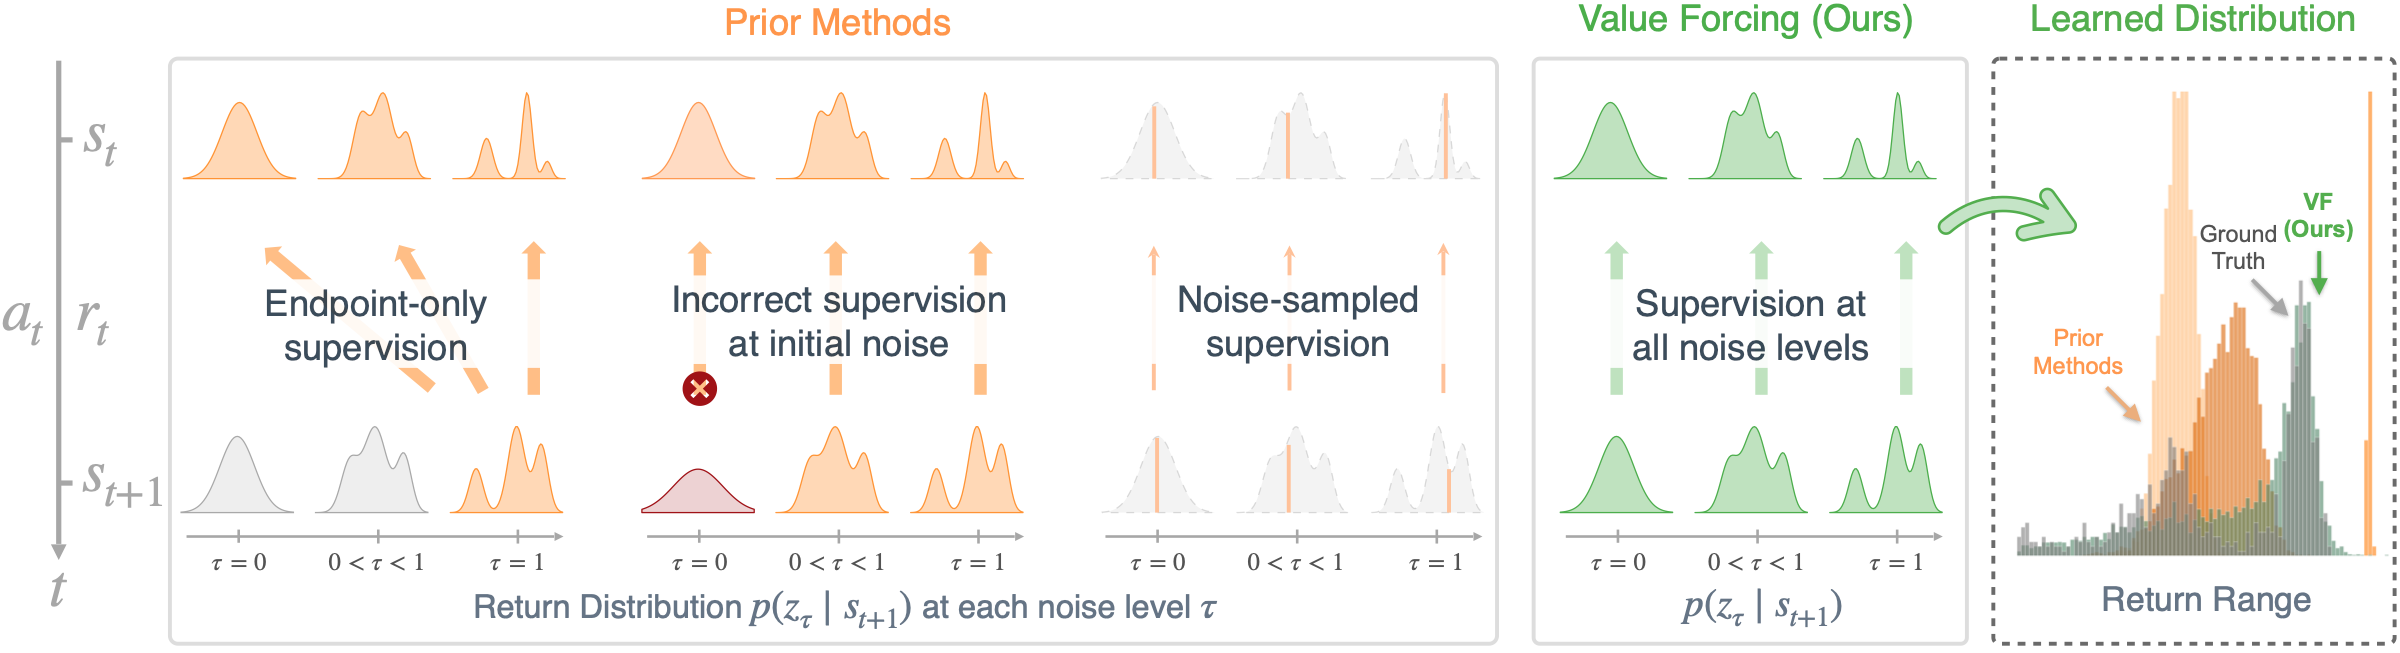
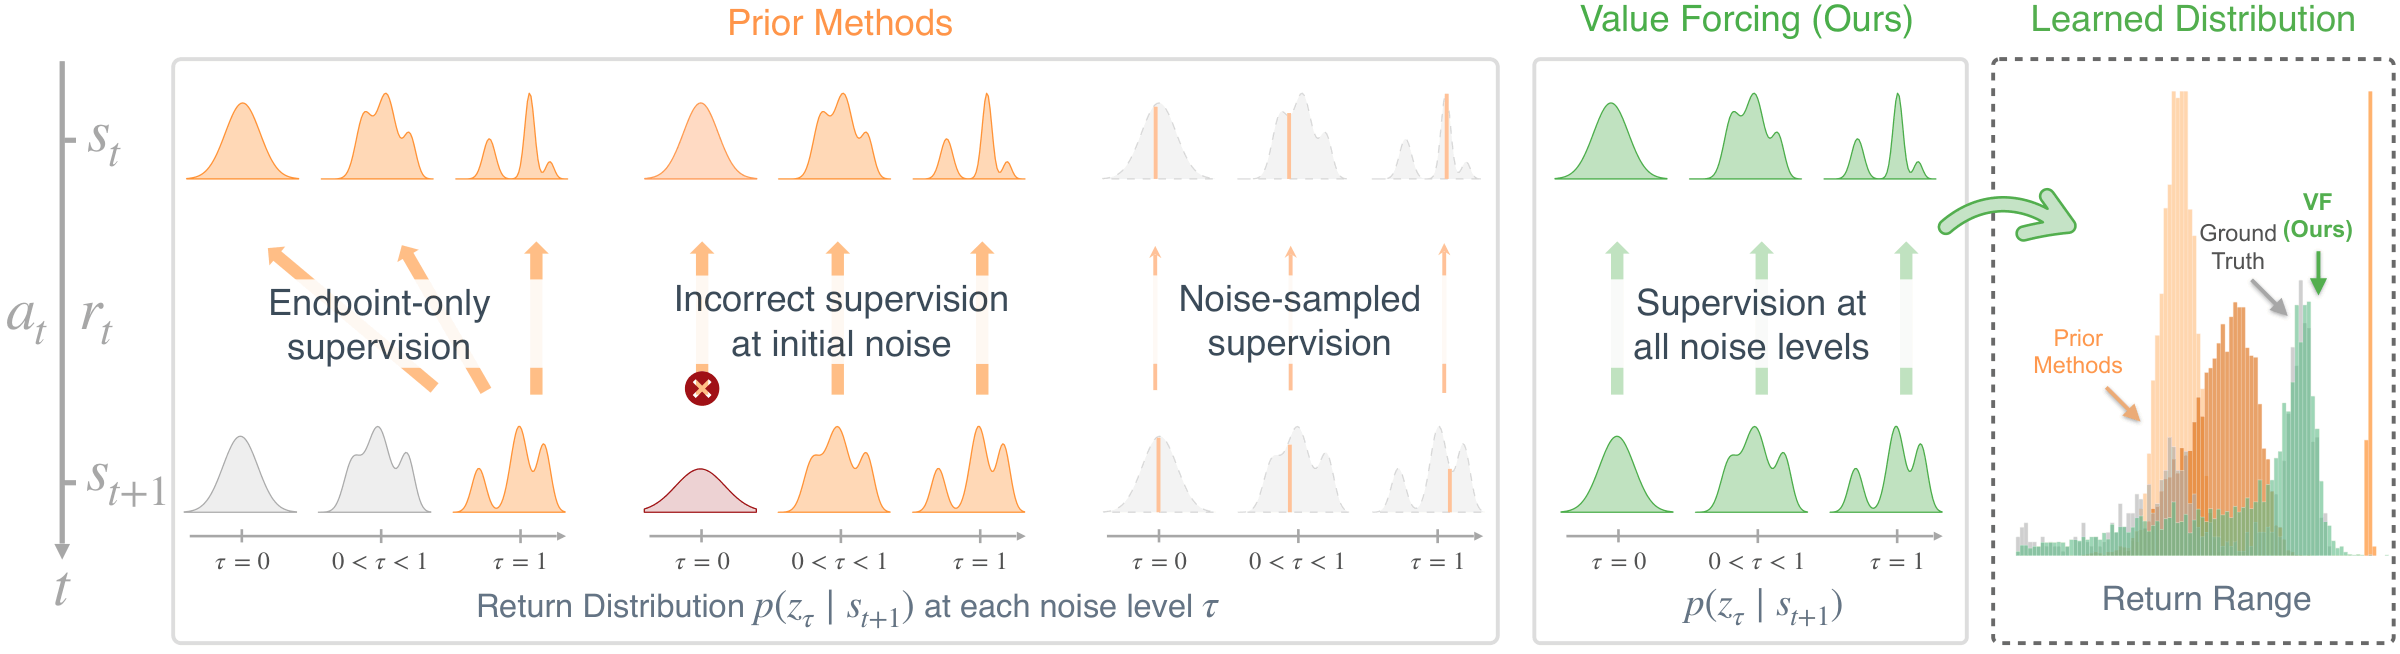
update value forcing website

diff --git a/_pages/value_forcing.html b/_pages/value_forcing.html
@@ -1770,7 +1770,7 @@ nav: false
       /* Teaser: shown in two rows cropped from the same image, split at the blank gap
          between the prior-methods panel and the Value Forcing panel (x = 1515 of 2400 px). */
       .teaser-img {
-        aspect-ratio: 1515 / 653;
+        aspect-ratio: 1515 / 654;
         object-fit: cover;
         object-position: 0 50%;
       }
@@ -1778,7 +1778,7 @@ nav: false
       .teaser-img.teaser-ours {
         display: block;
         margin-top: 0.75rem;
-        aspect-ratio: 885 / 653;
+        aspect-ratio: 885 / 654;
         object-position: 100% 50%;
       }
 
@@ -1978,9 +1978,9 @@ nav: false
     <section class="teaser" id="teaser" aria-label="Overview figure">
       <figure class="teaser-figure">
         <a class="fig-link" href="../assets/papers/value_forcing/images/teaser.png">
-          <img class="fig-img teaser-img" src="../assets/papers/value_forcing/images/teaser.png" width="2400" height="653" fetchpriority="high"
+          <img class="fig-img teaser-img" src="../assets/papers/value_forcing/images/teaser.png" width="2400" height="654" fetchpriority="high"
                alt="Overview of Value Forcing. Prior methods supervise the return distribution with endpoint-only supervision, incorrect supervision at the initial noise level, or noise-sampled supervision. Value Forcing supervises it at all noise levels. In the learned return histograms, prior methods collapse into narrow peaks while Value Forcing stays close to the ground truth.">
-          <img class="fig-img teaser-img teaser-ours" src="../assets/papers/value_forcing/images/teaser.png" width="2400" height="653" alt="" aria-hidden="true">
+          <img class="fig-img teaser-img teaser-ours" src="../assets/papers/value_forcing/images/teaser.png" width="2400" height="654" alt="" aria-hidden="true">
         </a>
       </figure>
     </section>
